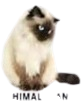
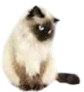
Added all of the cats PROPERLY and added readme and will now add functionality to all cats :)

diff --git a/src/routes/+page.svelte b/src/routes/+page.svelte
@@ -6,28 +6,236 @@
 	<h4 class="text-center text-5xl text-white">
 		Welcome to the Cat-alogue!
 	</h4>
-	<h3 class="text-left text-white text-3xl m-7">
-		The Pusheen Family
+	<h3 class="text-left text-white text-2xl m-7">
+		*Disclaimer - I do not own any of these cat
+		pictures and am distributing them for fun!*
 	</h3>
-	<!--Pusheen button-->
+	<button
+		class="text-left m-4"
+		onclick={goto("/balinese")}
+	>
+		<img
+			alt="balinese"
+			src="/images/balinese.webp"
+		/>
+	</button>
+
+	<button
+		class="text-left m-4"
+		onclick={goto("/biscuit")}
+	>
+		<img
+			alt="biscuit"
+			src="/images/biscuit.webp"
+		/>
+	</button>
+
+	<button
+		class="text-left m-4"
+		onclick={goto("/himalayan")}
+	>
+		<img
+			alt="himalayan"
+			src="/images/himalayan.webp"
+		/>
+	</button>
+
+	<button
+		class="text-left m-4"
+		onclick={goto("/khao_manee")}
+	>
+		<img
+			alt="khao_manee"
+			src="/images/khao_manee.webp"
+		/>
+	</button>
+
+	<button
+		class="text-left m-4"
+		onclick={goto("/korat")}
+	>
+		<img alt="korat" src="/images/korat.webp" />
+	</button>
+
+	<button
+		class="text-left m-4"
+		onclick={goto("/kurilian_bobtail")}
+	>
+		<img
+			alt="kurilian_bobtail"
+			src="/images/kurilian_bobtail.webp"
+		/>
+	</button>
+
+	<button
+		class="text-left m-4"
+		onclick={goto("/laperm_shorthair")}
+	>
+		<img
+			alt="laperm_shorthair"
+			src="/images/laperm_shorthair.webp"
+		/>
+	</button>
+
+	<button
+		class="text-left m-4"
+		onclick={goto("/lynx")}
+	>
+		<img alt="lynx" src="/images/lynx.webp" />
+	</button>
+
+	<button
+		class="text-left m-4"
+		onclick={goto("/maine_coon")}
+	>
+		<img
+			alt="maine_coon"
+			src="/images/maine_coon.webp"
+		/>
+	</button>
+
+	<button
+		class="text-left m-4"
+		onclick={goto("/manx")}
+	>
+		<img alt="manx" src="/images/manx.webp" />
+	</button>
+
+	<button
+		class="text-left m-4"
+		onclick={goto("/munchkin")}
+	>
+		<img
+			alt="munchkin"
+			src="/images/munchkin.webp"
+		/>
+	</button>
+
+	<button
+		class="text-left m-4"
+		onclick={goto("/nebelung")}
+	>
+		<img
+			alt="nebelung"
+			src="/images/nebelung.webp"
+		/>
+	</button>
+
+	<button
+		class="text-left m-4"
+		onclick={goto("/pip")}
+	>
+		<img alt="pip" src="/images/pip.webp" />
+	</button>
+
 	<button
 		class="text-left m-4"
 		onclick={goto("/pusheen")}
-		><img
+	>
+		<img
 			alt="pusheen"
 			src="/images/pusheen.webp"
 		/>
 	</button>
-	<!--Pip button-->
-	<button class="m-4" onclick={goto("/pusheen")}
-		><img alt="pusheen" src="/images/pip.webp" />
+
+	<button
+		class="text-left m-4"
+		onclick={goto("/ragdoll")}
+	>
+		<img
+			alt="ragdoll"
+			src="/images/ragdoll.webp"
+		/>
 	</button>
-	<!--Stormy button-->
-	<button class="m-4" onclick={goto("/pusheen")}
-		><img
-			alt="pusheen"
-			src="/images/stormy.webp"
-			hh
+
+	<button
+		class="text-left m-4"
+		onclick={goto("/scottish_fold")}
+	>
+		<img
+			alt="scottish_fold"
+			src="/images/scottish_fold.webp"
+		/>
+	</button>
+
+	<button
+		class="text-left m-4"
+		onclick={goto("/siamese")}
+	>
+		<img
+			alt="siamese"
+			src="/images/siamese.webp"
+		/>
+	</button>
+
+	<button
+		class="text-left m-4"
+		onclick={goto("/siberian")}
+	>
+		<img
+			alt="siberian"
+			src="/images/siberian.webp"
+		/>
+	</button>
+
+	<button
+		class="text-left m-4"
+		onclick={goto("/singapura")}
+	>
+		<img
+			alt="singapura"
+			src="/images/singapura.webp"
+		/>
+	</button>
+
+	<button
+		class="text-left m-4"
+		onclick={goto("/snowshoe")}
+	>
+		<img
+			alt="snowshoe"
+			src="/images/snowshoe.webp"
+		/>
+	</button>
+
+	<button
+		class="text-left m-4"
+		onclick={goto("/somali")}
+	>
+		<img alt="somali" src="/images/somali.webp" />
+	</button>
+
+	<button
+		class="text-left m-4"
+		onclick={goto("/sphynx")}
+	>
+		<img alt="sphynx" src="/images/sphynx.webp" />
+	</button>
+
+	<button
+		class="text-left m-4"
+		onclick={goto("/stormy")}
+	>
+		<img alt="stormy" src="/images/stormy.webp" />
+	</button>
+
+	<button
+		class="text-left m-4"
+		onclick={goto("/sunflower")}
+	>
+		<img
+			alt="sunflower"
+			src="/images/sunflower.webp"
+		/>
+	</button>
+
+	<button
+		class="text-left m-4"
+		onclick={goto("/turkish_van")}
+	>
+		<img
+			alt="turkish_van"
+			src="/images/turkish_van.webp"
 		/>
 	</button>
 </div>

diff --git a/README.md b/README.md
@@ -1,38 +1,4 @@
-# sv
-
-Everything you need to build a Svelte project, powered by [`sv`](https://github.com/sveltejs/cli).
-
-## Creating a project
-
-If you're seeing this, you've probably already done this step. Congrats!
-
-```sh
-# create a new project in the current directory
-npx sv create
-
-# create a new project in my-app
-npx sv create my-app
-```
-
-## Developing
-
-Once you've created a project and installed dependencies with `npm install` (or `pnpm install` or `yarn`), start a development server:
-
-```sh
-npm run dev
-
-# or start the server and open the app in a new browser tab
-npm run dev -- --open
-```
-
-## Building
-
-To create a production version of your app:
-
-```sh
-npm run build
-```
-
-You can preview the production build with `npm run preview`.
-
-> To deploy your app, you may need to install an [adapter](https://svelte.dev/docs/kit/adapters) for your target environment.
+Welcome to the Cat-alogue!
+It is a collection of different cats across the internet!
+Pet each cat to find out more about each cat
+This can also be found on cat-alogue.pages.dev
